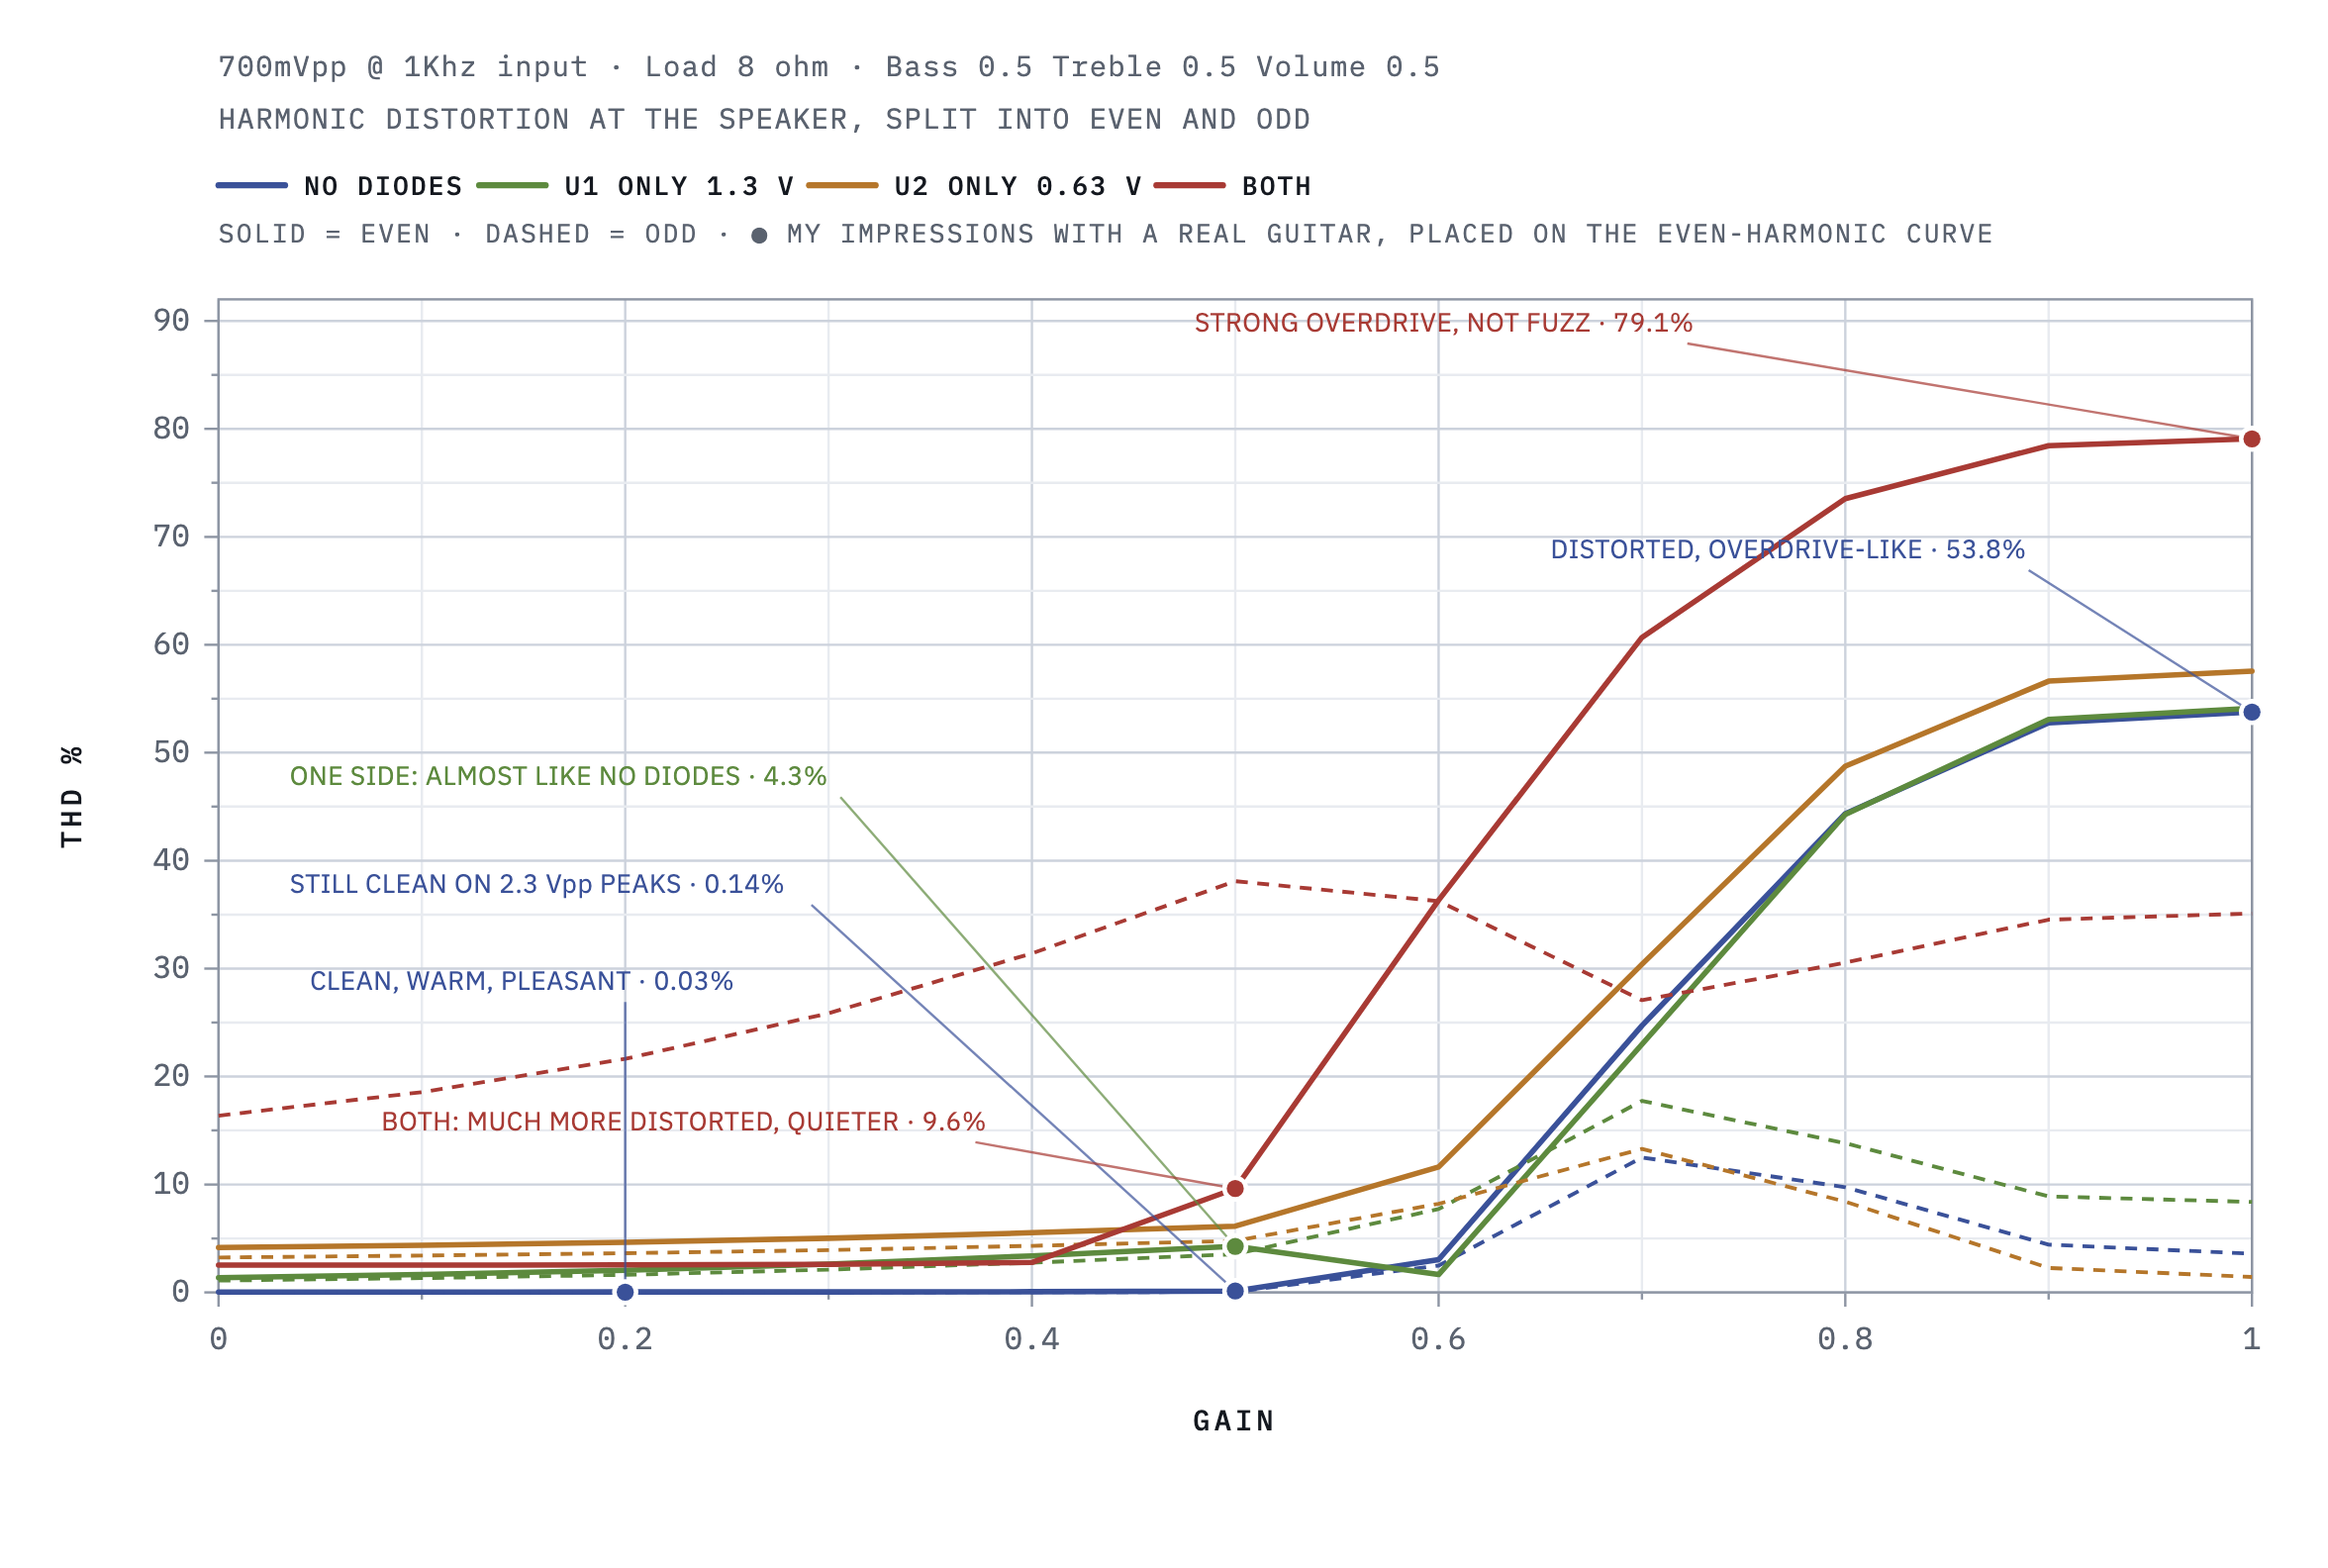
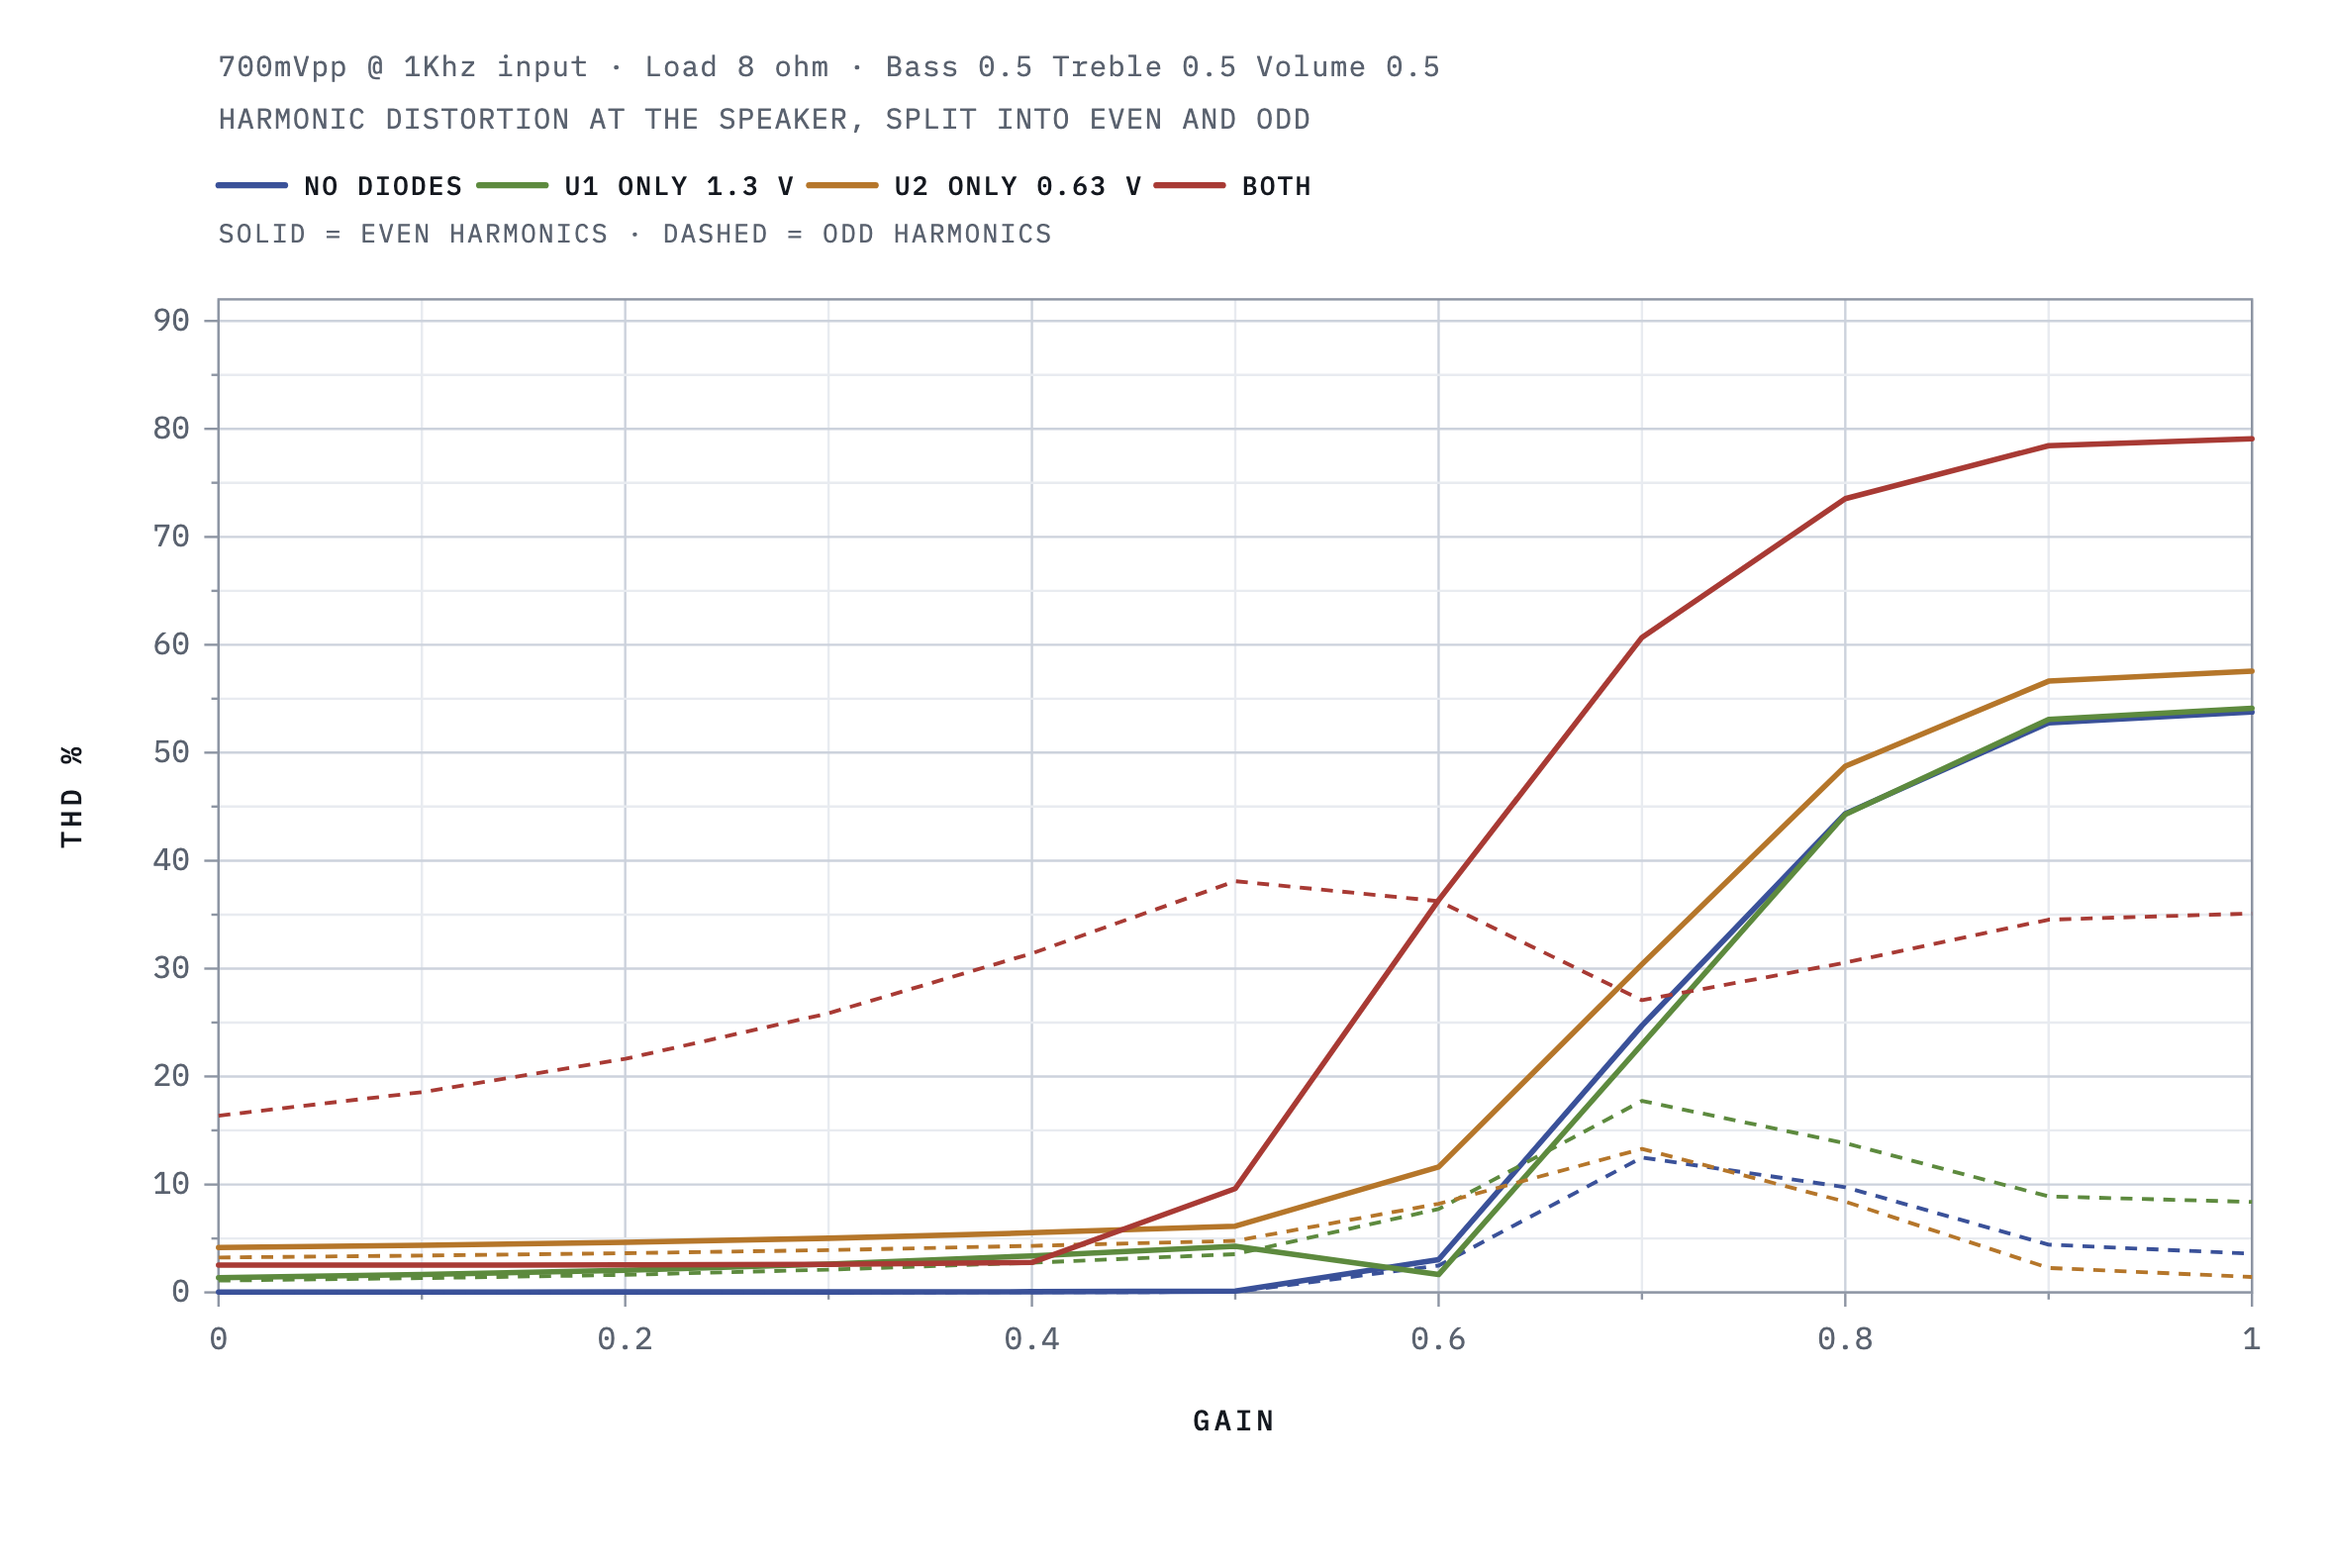
Quitar de la curva de THD las impresiones con la guitarra
Eran una lectura subjetiva encima de una medida, y mezclarlas confunde lo
que la curva dice con lo que a uno le parece. La leyenda se queda con lo
que se mide: continua para armonicos pares, discontinua para impares.

diff --git a/tools/ltspice/plot_thd_curve.py b/tools/ltspice/plot_thd_curve.py
@@ -17,11 +17,9 @@ esto: una senoidal a los 1,6 Vpp de un acorde da 23,9% de THD con la ganancia a
 0,5, donde la guitarra suena limpia. Esa diferencia es factor de cresta, 3 dB
 de una senoidal contra unos 18 de un acorde.
 
-Los seis puntos anotados son percepciones, no medidas de laboratorio. Se situan
-sobre la curva PAR de su color, con su valor al lado. Ojo con "both" a ganancia
-0,5: ahi la distorsion es casi toda impar (38,1% contra 9,6% de par), asi que
-ese punto cae en la componente menos representativa de su configuracion y hay
-que leerlo mirando tambien la discontinua.
+Ojo con "both" a ganancia 0,5: ahi la distorsion es casi toda impar (38,1%
+contra 9,6% de par), asi que leer solo la continua de esa serie engana y hay
+que mirar tambien la discontinua.
 
 NECESITA el .net de LTspice para --resim; ver la cabecera de bench.py.
 """
@@ -52,15 +50,6 @@ SERIES = (("none", "NO DIODES", "#3a5199", 0, 0),
           ("u2", "U2 ONLY 0.63 V", "#b5762a", 0, 1),
           ("both", "BOTH", "#a83a34", 1, 1))
 
-# (serie, ganancia, THD par, x e y del texto, texto)
-NOTES = [
-    ("u1",   0.5,  4.26, 0.035, 47, "ONE SIDE: ALMOST LIKE NO DIODES"),
-    ("none", 0.5,  0.14, 0.035, 37, "STILL CLEAN ON 2.3 Vpp PEAKS"),
-    ("none", 0.2,  0.03, 0.045, 28, "CLEAN, WARM, PLEASANT"),
-    ("both", 0.5,  9.61, 0.080, 15, "BOTH: MUCH MORE DISTORTED, QUIETER"),
-    ("none", 1.0, 53.78, 0.655, 68, "DISTORTED, OVERDRIVE-LIKE"),
-    ("both", 1.0, 79.08, 0.480, 89, "STRONG OVERDRIVE, NOT FUZZ"),
-]
 PAL = dict(bg="#ffffff", ink="#14181f", muted="#5a626f",
            grid="#ccd2dc", minor="#e8ebf0", frame="#8d95a3")
 
@@ -87,7 +76,6 @@ def simulate() -> dict:
 
 
 def draw(data: dict) -> str:
-    colour = {k: c for k, _, c, _, _ in SERIES}
     w, h = 980, 660
     ax = Ax(92, 126, 856, 418, (0, 1), (0, 92))
     s = [f'<svg xmlns="http://www.w3.org/2000/svg" width="{w}" height="{h}" '
@@ -99,7 +87,6 @@ def draw(data: dict) -> str:
   .axl{{font:500 12px "IBM Plex Mono",ui-monospace,monospace;fill:{PAL['ink']};letter-spacing:.14em}}
   .lgl{{font:500 11px "IBM Plex Mono",ui-monospace,monospace;fill:{PAL['ink']};letter-spacing:.08em}}
   .lgn{{font:400 11px "IBM Plex Mono",ui-monospace,monospace;fill:{PAL['muted']};letter-spacing:.08em}}
-  .ann{{font:400 11px "IBM Plex Sans",system-ui,sans-serif;letter-spacing:.02em}}
 </style>''']
 
     s.append(f'<text x="92" y="32" class="cond" fill="{PAL["ink"]}">'
@@ -115,9 +102,8 @@ def draw(data: dict) -> str:
                  f'stroke="{col}" stroke-width="2.6" stroke-linecap="round"/>')
         s.append(f'<text x="{lx + 36}" y="82" class="lgl">{label}</text>')
         lx += 44 + len(label) * 7.3
-    s.append(f'<text x="92" y="102" class="lgn">SOLID = EVEN &#183; '
-             f'DASHED = ODD &#183; &#9679; MY IMPRESSIONS WITH A REAL GUITAR, '
-             f'PLACED ON THE EVEN-HARMONIC CURVE</text>')
+    s.append(f'<text x="92" y="102" class="lgn">SOLID = EVEN HARMONICS '
+             f'&#183; DASHED = ODD HARMONICS</text>')
 
     s.append(grid(ax, PAL, linear_ticks(ax, 0.2, 0.1), ystep=5, ymajor=10,
                   yfmt=lambda v: f"{v:g}"))
@@ -132,24 +118,6 @@ def draw(data: dict) -> str:
         s.append(f'<path d="{ax.path(xs, [p["odd"] for p in rows])}" '
                  f'fill="none" stroke="{col}" stroke-width="1.6" '
                  f'stroke-linejoin="round" stroke-dasharray="5 4"/>')
-
-    for key, drive, thd, tx, ty, txt in NOTES:
-        col = colour[key]
-        label = f"{txt} &#183; {thd:.2f}%" if thd < 1 else f"{txt} &#183; {thd:.1f}%"
-        width = (len(label) - 5) * 6.1          # &#183; ocupa un caracter
-        px, py = ax.x(drive), ax.y(thd)
-        qx, qy = ax.x(tx), ax.y(ty)
-        ex = qx + width
-        # el tirante sale del borde del texto que mira al punto; si el punto
-        # cae justo debajo del texto, baja recto en vez de rodearlo
-        sx = ex if px > ex else (qx if px < qx else px)
-        s.append(f'<line x1="{sx:.1f}" y1="{qy + 5:.1f}" x2="{px:.1f}" '
-                 f'y2="{py:.1f}" stroke="{col}" stroke-width="1" opacity=".7"/>')
-        s.append(f'<circle cx="{px:.1f}" cy="{py:.1f}" r="5.5" '
-                 f'fill="{PAL["bg"]}"/>')
-        s.append(f'<circle cx="{px:.1f}" cy="{py:.1f}" r="3.6" fill="{col}"/>')
-        s.append(f'<text x="{qx:.1f}" y="{qy:.1f}" class="ann" fill="{col}" '
-                 f'text-anchor="start">{label}</text>')
 
     cy = ax.y0 + ax.h / 2
     s.append(f'<text x="34" y="{cy:.0f}" class="axl" text-anchor="middle" '
